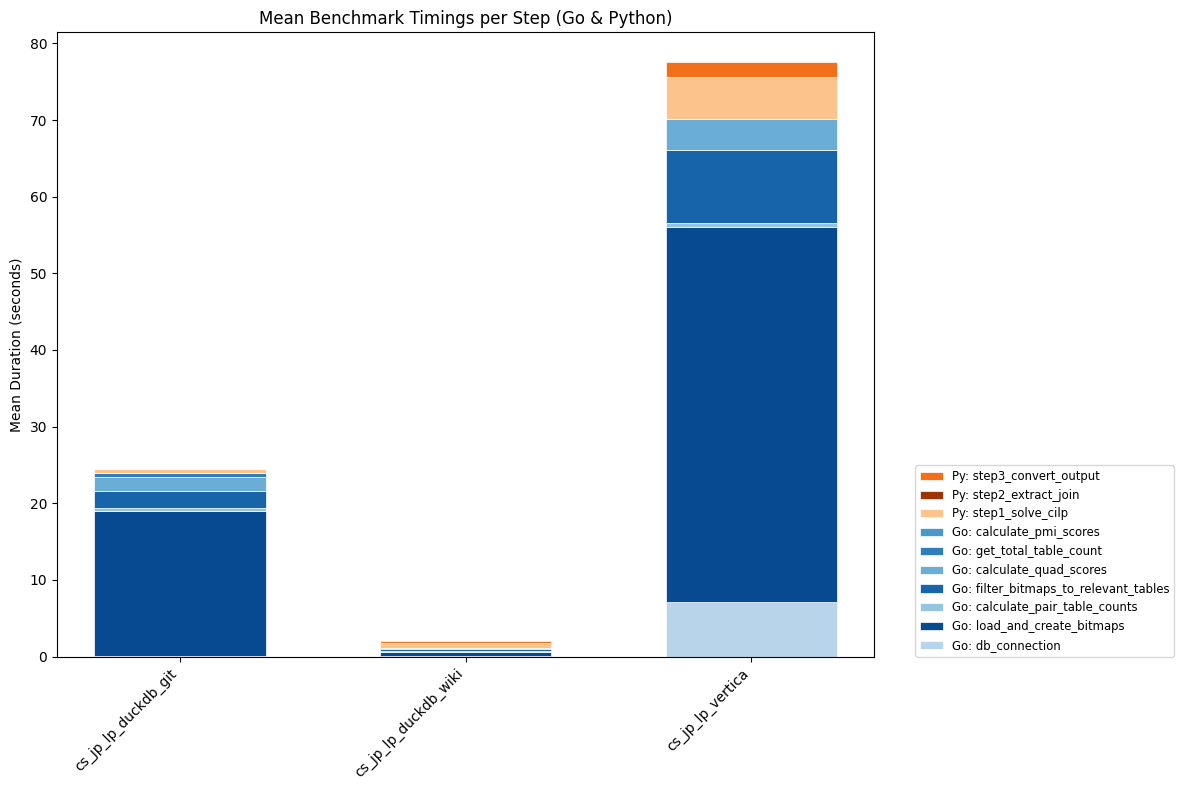
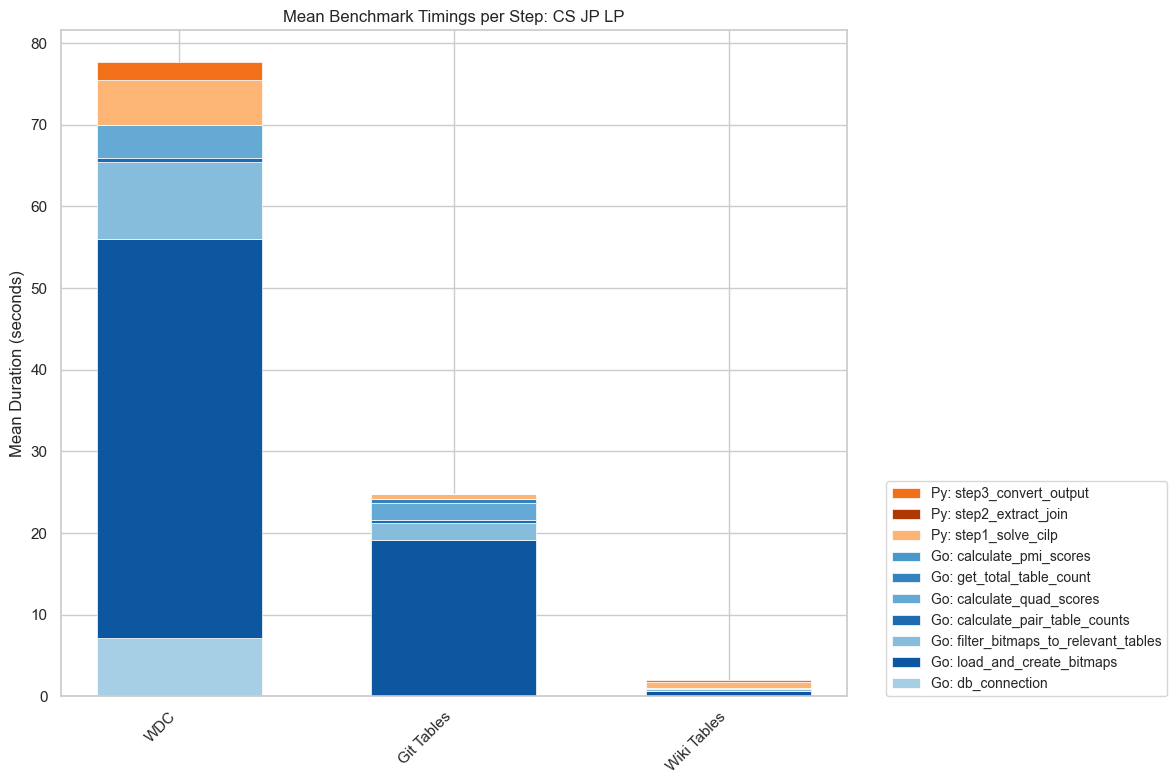
add new time plots

Changed region(s): [[0.0, 0.0, 1.0, 0.9796], [0.3061, 0.6122, 0.4592, 0.9796]]

diff --git a/evaluation/plot_timings.py b/evaluation/plot_timings.py
@@ -8,7 +8,7 @@ import numpy as np
 sys.path.append(os.path.dirname(os.path.dirname(os.path.abspath(__file__))))
 
 from evaluation.plot_style import apply_theme, get_corpus_palette
-from evaluation.utils import extract_case_timings, get_short_filename, load_results
+from evaluation.utils import extract_case_timings, load_results
 
 
 def get_alternating_colors(n, corpus):
@@ -31,7 +31,11 @@ def main():
     parser = argparse.ArgumentParser(
         description="Plot benchmark timings as a stacked bar chart."
     )
-    parser.add_argument("files", nargs="+", help="Benchmark JSON files")
+    parser.add_argument(
+        "directories",
+        nargs="+",
+        help="Benchmark directories containing benchmark_* JSON files",
+    )
     parser.add_argument(
         "--output", default="timings_plot.png", help="Output filename for the plot"
     )
@@ -50,7 +54,26 @@ def main():
         default="median",
         help="Aggregation method for timings (default: median)",
     )
+    parser.add_argument(
+        "--title",
+        help="Optional title override for the plot.",
+    )
+    parser.add_argument(
+        "--label",
+        action="append",
+        default=[],
+        metavar="DIR=LABEL",
+        help="Override the plotted label for a directory (repeatable, e.g., /runs/expA=Experiment A).",
+    )
     args = parser.parse_args()
+    label_overrides = {}
+    for entry in args.label:
+        if "=" not in entry:
+            print(f"Warning: invalid label override, expected DIR=LABEL -> {entry}")
+            continue
+        raw_dir, custom_label = entry.split("=", 1)
+        normalized_dir = os.path.normpath(os.path.abspath(raw_dir))
+        label_overrides[normalized_dir] = custom_label
     apply_theme()
 
     file_data = []
@@ -60,14 +83,32 @@ def main():
 
     agg_func = np.median if args.agg == "median" else np.mean
 
-    for filepath in args.files:
-        results = load_results(filepath)
-        if not results:
+    for dirpath in args.directories:
+        if not os.path.isdir(dirpath):
+            print(f"Warning: directory not found -> {dirpath}")
             continue
 
-        # Extract timings for all successful cases
-        case_timings = [extract_case_timings(c) for c in results if c.get("success")]
+        benchmark_files = sorted(
+            os.path.join(dirpath, f)
+            for f in os.listdir(dirpath)
+            if f.startswith("benchmark_") and os.path.isfile(os.path.join(dirpath, f))
+        )
+        if not benchmark_files:
+            print(f"Warning: no benchmark_ files found in -> {dirpath}")
+            continue
+
+        case_timings = []
+        for filepath in benchmark_files:
+            results = load_results(filepath)
+            if not results:
+                continue
+
+            case_timings.extend(
+                [extract_case_timings(c) for c in results if c.get("success")]
+            )
+
         if not case_timings:
+            print(f"Warning: no valid case timings in -> {dirpath}")
             continue
 
         for ct in case_timings:
@@ -126,8 +167,13 @@ def main():
                     ct.get("ai_timings", {}).get(step, 0) or 0
                 )
 
+        normalized_dirpath = os.path.normpath(os.path.abspath(dirpath))
+        dir_label = label_overrides.get(
+            normalized_dirpath, os.path.basename(os.path.normpath(dirpath))
+        )
+
         final_avg = {
-            "label": get_short_filename(filepath),
+            "label": dir_label,
             "go": {
                 step: agg_func(vals) if vals else 0
                 for step, vals in avg_timings["go"].items()
@@ -220,7 +266,10 @@ def main():
     service_title = (
         args.service.capitalize() if args.service != "all" else "Go, Python & AI"
     )
-    ax.set_title(f"{agg_title} Benchmark Timings per Step ({service_title})")
+    plot_title = (
+        args.title or f"{agg_title} Benchmark Timings per Step ({service_title})"
+    )
+    ax.set_title(plot_title)
     ax.set_xticks(x)
     ax.set_xticklabels(labels, rotation=45, ha="right")
 
